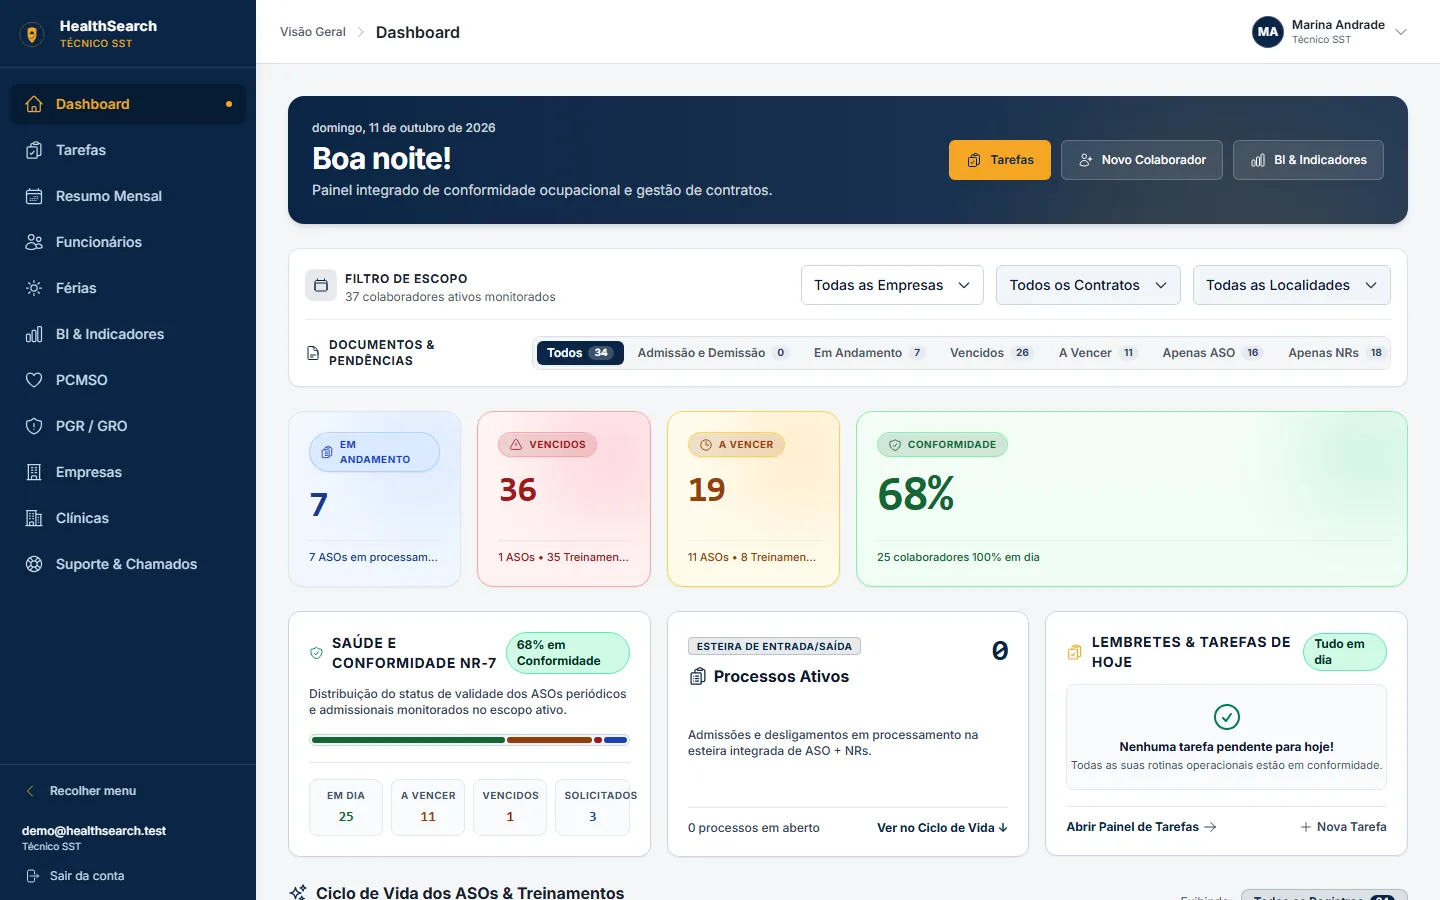
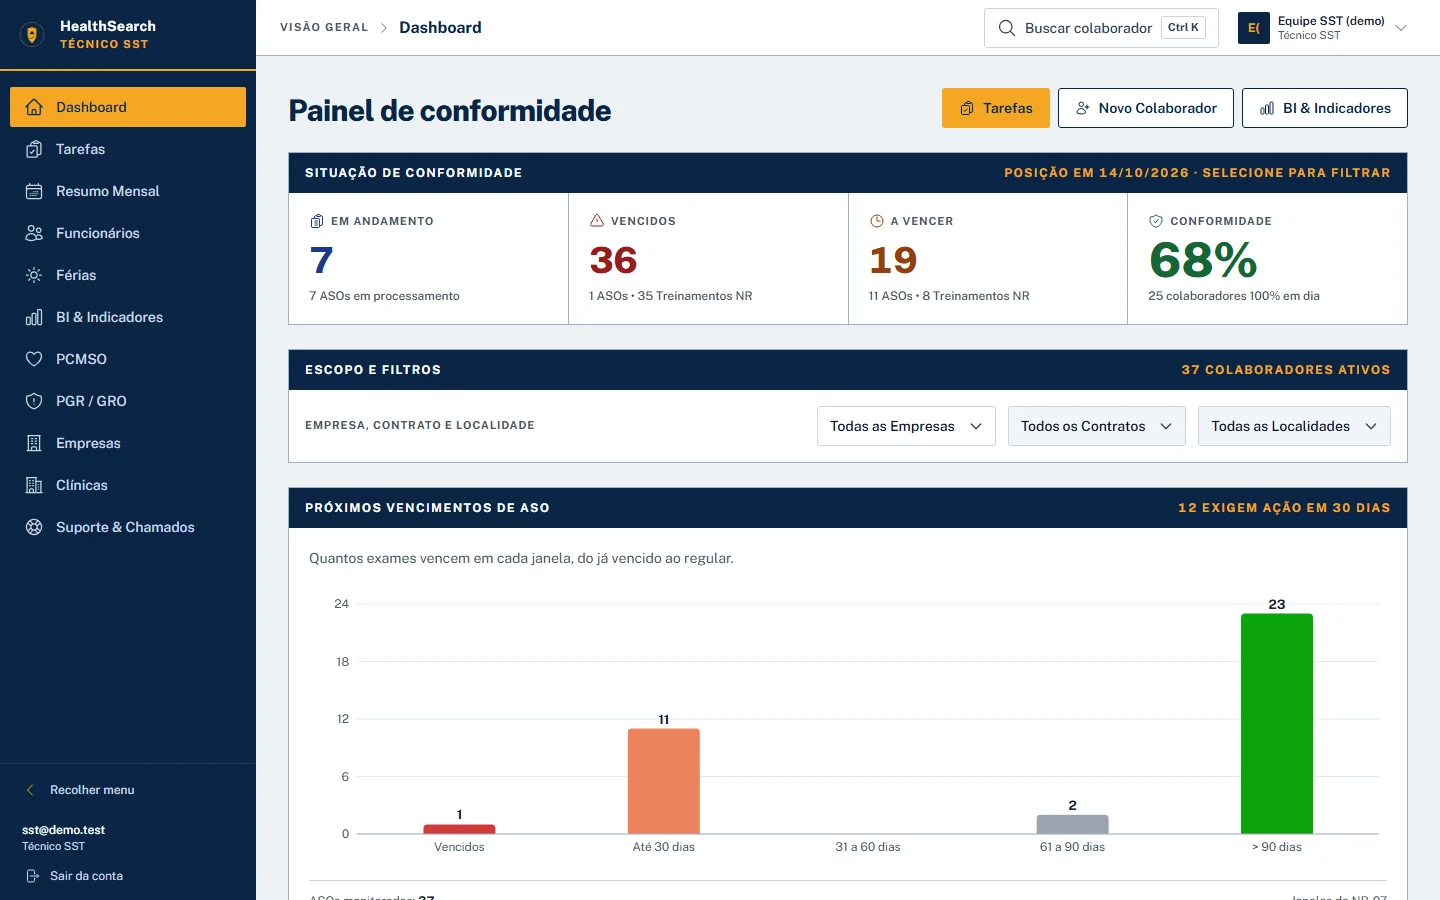
feat(healthsearch): swap screenshots for the current front end
Dashboard and employee profile recaptured from the SIGAC demo
(local emulator, fictitious data, real-client preset off).
Captions now describe what the new screens show.

diff --git a/src/pages/healthsearch.jsx b/src/pages/healthsearch.jsx
@@ -221,11 +221,11 @@ function HealthSearch() {
           <Shot
             className="mt-14"
             src="/assets/projetos/healthsearch/screens/ficha-colaborador.webp"
-            alt={t('HealthSearch: ficha do colaborador com ASO e treinamentos NR', 'HealthSearch: employee profile with exams and NR training')}
+            alt={t('HealthSearch: ficha do funcionário com dados, NRs aplicáveis e histórico de ASOs', 'HealthSearch: employee profile with details, applicable NRs and exam history')}
             width={1440}
             height={900}
-            url="/funcionarios"
-            caption={t('Ficha do colaborador: ASO, exames complementares e treinamentos com o mesmo semáforo', 'Employee profile: exams, complementary tests and training under the same traffic light')}
+            url="/funcionarios/func_003"
+            caption={t('Ficha do funcionário: vínculo, NRs aplicáveis e histórico de ASOs com status', 'Employee profile: employment, applicable NRs and exam history with status')}
           />
         </div>
       </section>
@@ -269,11 +269,11 @@ function HealthSearch() {
           <div className="mt-12 grid gap-12 lg:grid-cols-[1.25fr_1fr] lg:gap-16">
             <Shot
               src="/assets/projetos/healthsearch/screens/dashboard.webp"
-              alt={t('HealthSearch: dashboard de conformidade SST', 'HealthSearch: OHS compliance dashboard')}
+              alt={t('HealthSearch: painel de conformidade com ASOs vencidos, a vencer e gráfico de vencimentos', 'HealthSearch: compliance dashboard with expired and due exams and an expiry chart')}
               width={1440}
               height={900}
               url="/dashboard"
-              caption={t('Painel em bento grid: KPIs, ações prioritárias e vencimentos', 'Bento-grid dashboard: KPIs, priority actions and upcoming expirations')}
+              caption={t('Painel de conformidade: situação dos ASOs, filtros por empresa e próximos vencimentos', 'Compliance dashboard: exam status, company filters and upcoming expirations')}
             />
             <dl className="border-t border-line">
               {[
